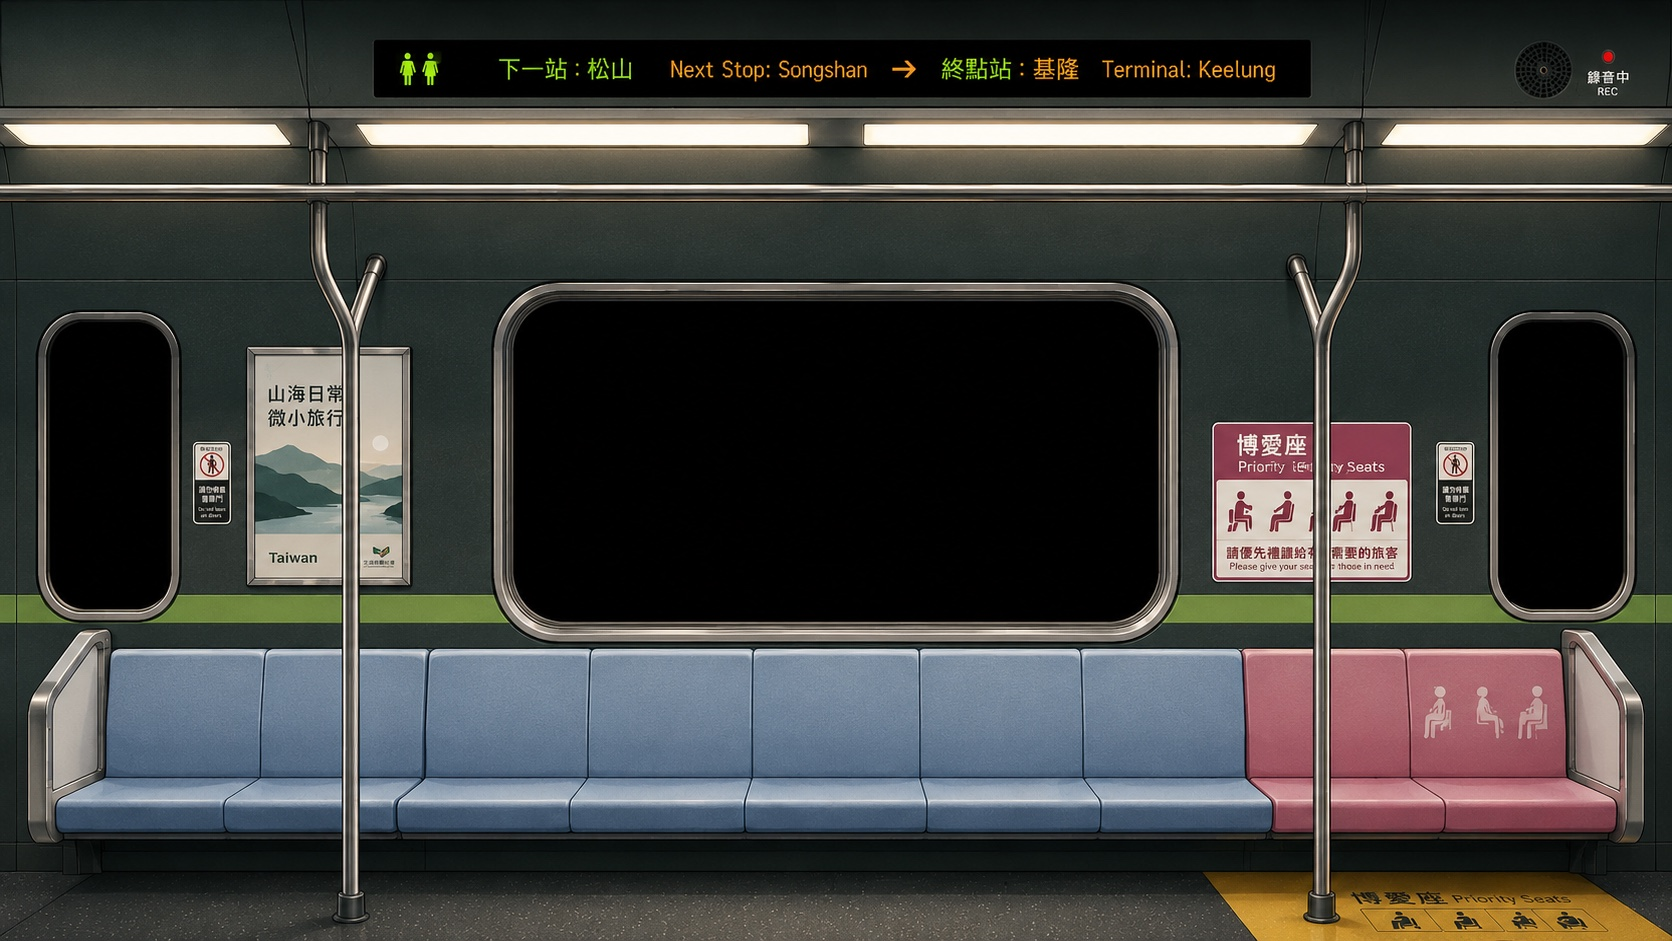
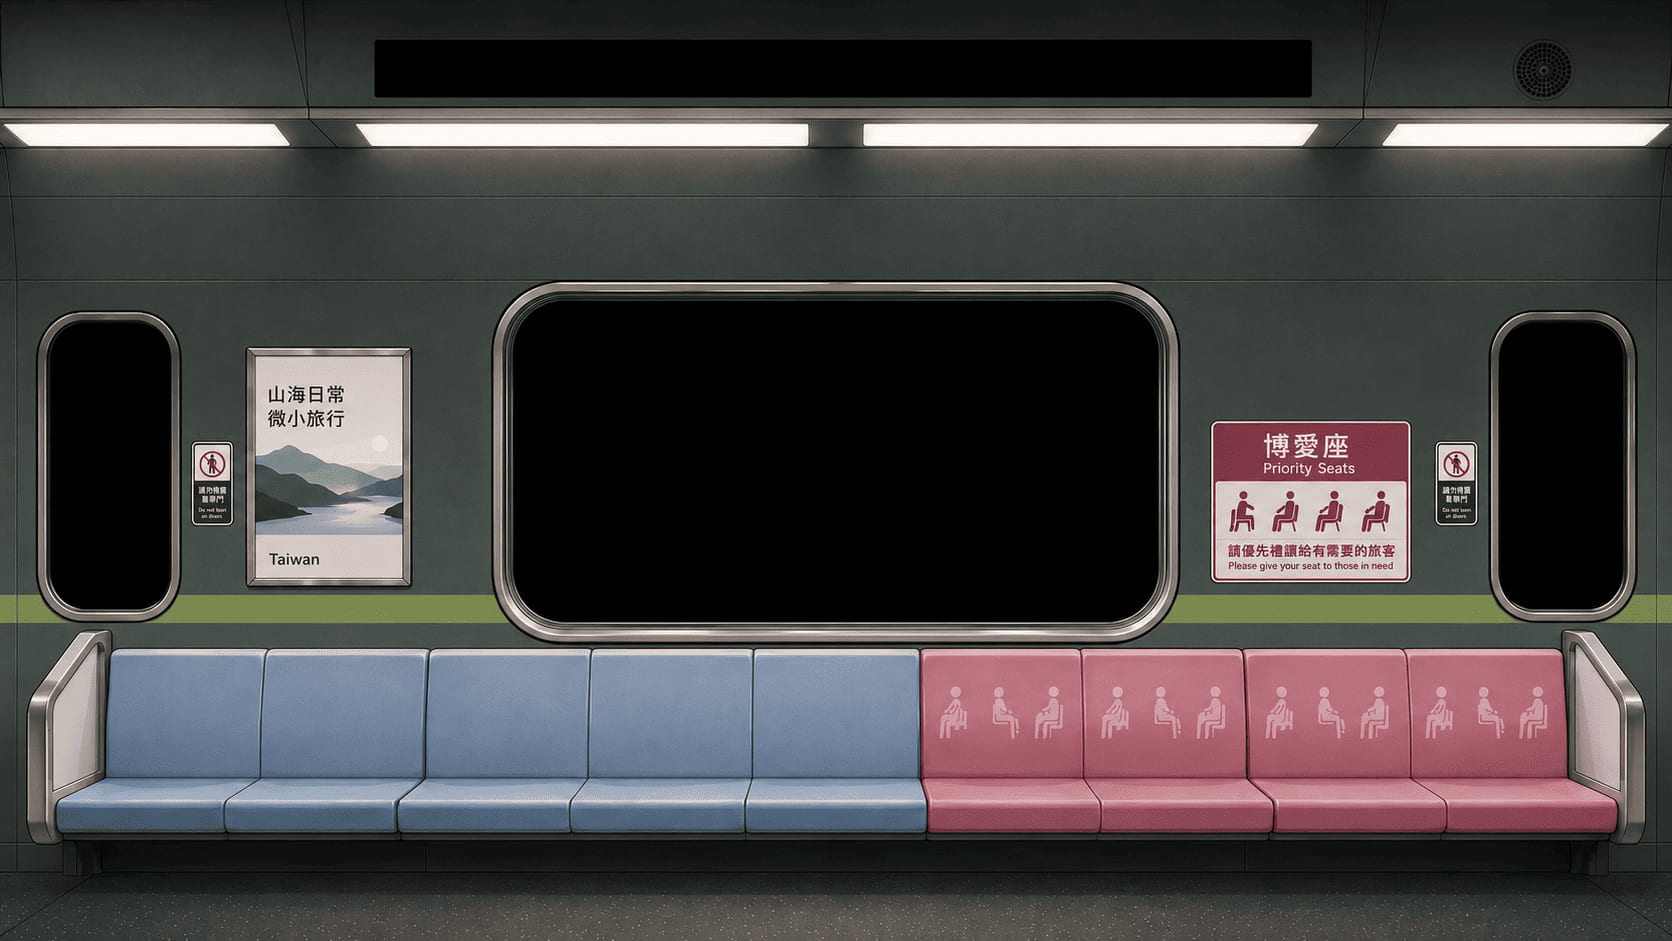
feat: 車廂基底更換(告示文字修正版)+ 立柱前景層資產
3D 化階段 1 的素材前置(docs/specs/3d-stages-2026-08.md):

- public/cabin.jpg 換為使用者重生的無立柱版:1672×941 原生正比例
  (1.7768332,零重採樣)、mozjpeg q82 4:4:4、150KB(原 424KB)
- 告示文字修正:博愛座四行與海報逐字正確(舊版實為「Priority Identity
  Seats」+ 亂碼 CJK);LED 為空白暗屏(塗黑機制成 no-op 但保留)
- LED_RECT 重量修正(22.4/4.1/56.1/6.3,右緣補蓋 1px);WIN 實測差
  ≤0.12% 維持原值
- public/cabin/cabin-front.png:立柱+橫杆 alpha 層(2715×1528、120KB),
  由綠幕母檔(docs/assets/)去背 —— alpha + flood-fill 交叉檢查,
  含 Y 型分叉封閉背景區處理。已產出未接 DOM(接入屬階段 1)
- 門場景末幀對位回歸:雙 agent 獨立量測交叉吻合,dx 0.02–0.05px
  次像素級;相機常數與 EXPOSURE 皆不需調整
- 換基底 SOP 與兩輪量測記錄:docs/ai-illustration-prompts.md §E;
  解析度警語(下次生圖指定 2×)入 CLAUDE.md 坑 9

diff --git a/lib/progress.ts b/lib/progress.ts
@@ -61,12 +61,29 @@ export function panoramaOffset(rp: number, span: number) {
 }
 
 // 車窗座標(% of public/cabin.jpg,1672×941,實測值)
+// 2026-08 換基底(無立柱版,見 docs/ai-illustration-prompts.md §E)後重量。量法:sharp raw
+// buffer 取 luma < 26 的連通區塊 —— 車窗玻璃在圖裡是純黑,連通區塊的 bbox 就是**玻璃外緣**。
+// 這裡的值刻意比玻璃外緣再內縮 0.3–0.7%:blit 出來的窗景不該爬上金屬窗框那圈壓條
+// (圓角 r 是橢圓,四角的實際內縮比邊上更多,所以邊上留一點餘裕才不會露白)。
+//   玻璃外緣實測 / 本表值:
+//   中央 30.68 31.99 38.64 34.11 / 31.2 32.6 37.6 33.0
+//   左   2.81 34.01 7.42 30.71  / 3.2  34.5 6.9  29.7
+//   右   89.65 34.01 7.66 30.71 / 90.0 34.5 7.2  29.6
+// 2026-08 ② 二次換基底(文字修正版)後以同一 threshold 重量:三扇窗與上一輪的差異全都
+// ≤ 0.12%(≈1px @ 941 高),**本表值不動** —— 重生成沒有動到車窗構圖。改這種量級的數字
+// 只是製造 diff,對畫面沒有任何影響。
 export const WIN = [
-  { left: 31.2, top: 32.7, w: 37.6, h: 32.9, r: "4% / 8%", pos: "center" }, // 中央窗
-  { left: 3.2, top: 34.5, w: 6.9, h: 29.6, r: "26% / 8%", pos: "22% center" }, // 左窗
-  { left: 89.9, top: 34.5, w: 7.3, h: 29.6, r: "26% / 8%", pos: "78% center" }, // 右窗
+  { left: 31.2, top: 32.6, w: 37.6, h: 33.0, r: "4% / 8%", pos: "center" }, // 中央窗
+  { left: 3.2, top: 34.5, w: 6.9, h: 29.7, r: "26% / 8%", pos: "22% center" }, // 左窗
+  { left: 90.0, top: 34.5, w: 7.2, h: 29.6, r: "26% / 8%", pos: "78% center" }, // 右窗
 ] as const;
-export const LED_RECT = { left: 22.4, top: 4.1, w: 55.8, h: 6.2 } as const;
+// LED 顯示器:這一組是**顯示區(黑底)的實測範圍**,不內縮 —— 它同時是 DOM 跑馬燈的定位框
+// 與門場景背板「把烤死字塗掉」的矩形(scene.ts),兩邊都要剛好蓋住整塊黑底才對得上。
+// 2026-08 ② 二次換基底後重量:黑底 22.37 / 4.14 / 56.10 / 6.27(新圖的 LED 是**空白暗屏**,
+// 沒有烤死字,所以整塊是乾淨的純黑矩形,邊界比上一輪更好量 —— 上一輪的 h 是被烤死字的
+// 發光尾巴干擾才要靠目測補到 6.2)。本表取實測值向外湊到覆蓋整塊黑底:舊值的 w=56.0
+// 會在右緣留約 1px 黑底沒蓋到。
+export const LED_RECT = { left: 22.4, top: 4.1, w: 56.1, h: 6.3 } as const;
 
 function mixRgba(a: string, b: string, t: number) {
   const p = (s: string) => s.match(/[\d.]+/g)!.map(Number);

diff --git a/docs/ai-illustration-prompts.md b/docs/ai-illustration-prompts.md
@@ -115,7 +115,11 @@ exposure, fine grain. No text, no lettering, no logos, no watermark. Horizontal 
 
 ⚠ **曝光**：門場景的環境光只有 0.25–0.48（冷藍夜色），素材直接乘下去會整片沉進黑裡。
 `scene.ts` 的 `EXPOSURE = { door, wall, floor }` 就是各張的曝光補償係數（`color.setScalar`），
-換圖後對照 `public/cabin.jpg` 的車廂牆面（sRGB ≈ 0.17）重新目視校一次。
+換圖後對照 `public/cabin.jpg` 的車廂牆面重新目視校一次。
+**2026-08 換基底後這個基準值變了**：舊基底的牆面 sRGB ≈ 0.17，新基底同一塊是 **≈ 0.29**（整張平均
+亮度 +15.7%）。`EXPOSURE` **刻意沒跟著調高**——門板/車體/月台三張是「月台側、夜裡」的素材，跟著背板
+提亮 1.7 倍只會把不鏽鋼曝成白鐵皮，而「車外暗、車內亮」本來就是這個鏡頭要講的事（暖光潑出門口）。
+真的覺得門板太沉再動 `EXPOSURE.door`，而且一次只動一個係數、每次都回頭看門開一半那幀。
 
 4. **標語橫向相位**（②，2026-08 換上帶標語的版本後新增）：新圖的海報／標語全部擠在貼圖
    左右兩端（實測 u 0.026–0.175 與 0.809–0.974），中間是乾淨鋼板。tiling 後兩群會在接縫處
@@ -127,6 +131,90 @@ exposure, fine grain. No text, no lettering, no logos, no watermark. Horizontal 
 
 **體積**：原始 PNG 共 1.18 MB，已用 mozjpeg q82 轉成 JPEG 共 434 KB（視覺無差），PNG 已移除。
 2026-08 ② 換成帶標語的版本（PNG 568 KB → JPEG q82 4:4:4 200 KB，舊版 126 KB），三張共 518 KB。
+
+---
+
+## E. 車廂基底與拆層（2026-08 換基底，已上線）
+
+> 原定的 L1 拆層計畫（`docs/specs/3d-stages-2026-08.md` 階段 1）是「inpaint 原圖 → 差分切前景」，
+> 實測失效：使用者重生成的新版與舊版有 36% 的像素差、而且差異散布全畫面（不是只有立柱區），
+> 差分切出來的前景會夾帶整片牆的色偏。**決策改為換基底**：新的無立柱版直接成為全站基底，
+> 立柱另外一張帶 alpha 的前景層。兩張都是使用者的 AI 工作流產出，沒有外部素材授權問題。
+
+| 檔案 | 尺寸 / 體積 | 內容 | 狀態 |
+|---|---|---|---|
+| `public/cabin.jpg` | 1672×941 · 150 KB | 車廂內裝，**無立柱無橫杆**（牆/窗/座椅完整） | 全站基底，已上線（② 版） |
+| `public/cabin/cabin-front.png` | 2715×1528 RGBA · 119 KB | 立柱 ×2 + 頂端橫杆的去背層 | 素材就緒，**還沒接進 DOM**（階段 1 後續） |
+| `public/cabin/cabin-front-green.png` | 1672×941 · 27 KB | 上面那張的來源母檔（綠幕 `(71,112,76)`，本身已帶 alpha） | 保留備查，未被引用 |
+
+### 換基底的 SOP（照這個順序，每一步都有對應的量測）
+
+1. **比例先於一切**：目標是 `1672/941 = 1.7768329`（CSS 的 `177.68vh` 與 `scene.ts` 的 `CABIN_ASPECT`
+   都寫死這個值，見 CLAUDE.md 坑 4）。分子分母互質，所以只有 1672×941 的整數倍是精確值；
+   實務上挑一組誤差 < 0.001% 的整數尺寸（現在的 2715×1528 誤差 0.00004%），用 `fit: "fill"`
+   把原生尺寸壓過去（2730×1536 → 2715×1528 是橫向拉 0.008%，0.2px，肉眼與互相關都測不出來）。
+   **不要反過來去改 CSS 或場景常數。**
+2. **壓縮**：mozjpeg q82 + **4:4:4**（圖裡有告示與海報的小字，4:2:0 會把紅字糊成一團）。
+   預算 ≤ 500 KB（它有 `layout.tsx` 的 preload，是 LCP 候選）。實測 2715×1528 q82 4:4:4 = 344 KB，
+   1672×941 同設定 = 150 KB。
+3. **重量三扇窗（`WIN`）**：車窗玻璃在圖裡是純黑 → 取 luma < 26 的連通區塊，bbox 就是玻璃外緣；
+   再內縮 0.3–0.7% 得到 `WIN`（窗景不該爬上金屬壓條，圓角處內縮得更多）。數字見 `lib/progress.ts`。
+4. **重量 LED（`LED_RECT`）**：取顯示器黑底的實測範圍，**不內縮**——它同時是 DOM 跑馬燈的定位框
+   與門場景背板塗黑矩形的來源。驗收方式：門末幀 `render(1)` 後讀背板 canvas 在該矩形內的像素，
+   「暖色像素（r > g+12 且 r > 40）」必須是 **0**（原圖同一塊有 3033 個，那就是烤死的橘字）。
+5. **門場景末幀對位回歸**（比例守住的話應該自動成立，但一定要實測）：
+   `__door3d.render(1, "enter")` 後同一個 task 內 `drawImage(canvas)`（`preserveDrawingBuffer` 是 false，
+   跨 task 就讀不到），另一張 canvas 用解析幾何畫 DOM 車廂（`max(100vw, 177.68vh) × 1.035`、置中，
+   **不要**用 `getBoundingClientRect`，那會把 sway 的抖動一起量進去），再對兩張的欄/列亮度剖面做
+   正規化互相關 + 拋物線次像素插值。2026-08 實測：1920×958 → dx +0.02 / dy +0.03，390×844 →
+   dx +0.001 / dy +0.002，相關 0.997–0.999。
+6. **曝光**：見 §D 末的 ⚠（新基底比舊的亮，`EXPOSURE` 刻意不動）。
+
+### 第二輪換基底（② 告示文字修正版）的實測值
+
+使用者為了修掉 ① 版海報／告示上的亂碼字重生成了一次，2026-08-14 上線。**這一版原生就是
+1672×941**，比例分毫不差、零重採樣（① 版是 2730×1536 壓成 2715×1528）。逐項照上面的 SOP 重跑：
+
+| 項目 | ② 實測 | 判定 |
+|---|---|---|
+| 尺寸 / 壓縮 | 1672×941、q82 **4:4:4**、150 KB | 過（預算 ≤ 500 KB） |
+| 中央窗玻璃外緣 | 30.68 / 31.99 / 38.64 / 34.11 | 與 ① 差 ≤ 0.12%，`WIN` 不動 |
+| 左窗玻璃外緣 | 2.81 / 34.01 / 7.42 / 30.71 | 同上 |
+| 右窗玻璃外緣 | 89.65 / 34.01 / 7.66 / 30.71 | 同上 |
+| LED 黑底 | 22.37 / 4.14 / 56.10 / 6.27 | `LED_RECT` 更新為 22.4 / 4.1 / 56.1 / 6.3 |
+| LED 塗黑驗收 | `LED_RECT` 內 55342 px、暖色像素 **0**、平均 luma **1.0** | 過（② 的 LED 是空白暗屏，沒有烤死字） |
+| 車廂牆面 sRGB | 0.299（整張平均 0.275） | 與 ① 的 ≈0.29 同級，`EXPOSURE` 不動 |
+| 末幀對位 1920×958 | dx **+0.045** / dy **+0.024**，corr 0.9994 / 0.9996 | 過 |
+| 末幀對位 390×844 | dx **+0.016** / dy **+0.037**，corr 0.9993 / 0.9989 | 過 |
+
+文字驗收（放大 6–14×）：博愛座大告示四行「博愛座 / Priority Seats / 請優先禮讓給有需要的旅客 /
+Please give your seat to those in need」**全部正確**，海報「山海日常 / 微小旅行 / Taiwan」也正確。
+車門旁兩張直式小告示在原圖只有 **43×85 px**（字高約 7px），字形已經化成色塊、判不出對錯——
+但它在任何真實視窗下也是同樣的尺寸（1920 寬時約 49×98 CSS px），**讀不出來是構圖決定的，不是缺陷**，
+不擋流程。
+
+⚠ **解析度**：② 版比 ① 版小（1672×941 vs 2715×1528）。1920 寬的桌機要放大 1.19×、retina 再 ×2，
+細節會比 ① 版軟。下次再換基底時**優先跟使用者要 2× 尺寸**（3344×1882），比例照樣是 1672:941 的整數倍。
+
+### 立柱層的去背
+
+母檔是綠幕，但**它已經自帶 alpha**（背景 a=0、邊緣有羽化、可見像素裡零殘綠），所以正確做法是
+**沿用既有 alpha，用色鍵當交叉檢查**，而不是重新色鍵一次：
+
+- 檢查用「從四邊界出發、只走近色鍵像素的 flood-fill」（不要全域色鍵——立柱本身若有接近的暗綠會被挖洞）。
+  實測 flood-fill 判定的背景佔 93.73%，與既有 alpha 的分歧只有 638 px（flood 說背景、alpha 說不透明）
+  與 2037 px（alpha 說全透、flood 沒走到 = 立柱 Y 型分叉圍出來的封閉背景，**這正是純邊界 flood-fill
+  會漏掉的洞**，也是「別丟掉既有 alpha」的理由）。分歧一律偏向保留不透明。
+- 母檔的 alpha 最大值只有 253，要正規化到 255，否則整層永遠透一點。
+- 全透明像素的 RGB 從綠幕色換成中性鋼灰：瀏覽器縮放走預乘所以理論上無所謂，但任何非預乘的路徑
+  （某些 canvas / 匯出工具）都會吐綠邊，換掉的成本是零。
+- 立柱位置實測（%）：兩根立柱在 x 20.28–21.53 與 78.29–79.55，橫杆在 y 10.31–12.43。
+  （② 基底上線後用 alpha > 40 重量一次：x 20.22–21.62 / 78.31–79.71、橫杆 y 10.27–12.63、
+  立柱 y 10.27–96.66，差異 ≤ 0.2% 且純粹來自 alpha 門檻。alpha 最大值已是 255，正規化沒漏做。
+  疊上 ② 基底出的合成圖：橫杆貼在天花板燈帶下緣、兩支柱腳的底盤落在座椅前的地板上、
+  無綠邊無白邊，**位置合理，不需要調整**。）
+  以階段 1 的規劃值（前景層 `scale 1.06` + 視差係數 1.7、滑鼠 ±15px）做過合成模擬：
+  最大位移下立柱兩端仍在畫面外，不會露出杆頭。
 
 ---
 

diff --git a/CLAUDE.md b/CLAUDE.md
@@ -46,9 +46,15 @@ components/
   Icon.tsx              lucide 薄包裝,語意固定
   SoundToggle.tsx       音軌狀態機(module scope)+ 左上角靜音鍵
 lib/
-  progress.ts           相位數學 + 車窗/LED 座標(cabin.jpg 實測百分比)
+  progress.ts           相位數學 + 車窗/LED 座標(cabin.jpg 實測百分比;換基底必須重量,量法見
+                        docs/ai-illustration-prompts.md §E。LED_RECT 是唯一來源:DOM 跑馬燈的
+                        定位框與門場景背板「把烤死字塗黑」的矩形共用它)
   scene.ts              ★ 六種窗景的逐像素 canvas 繪製(純函式,無動畫)
 content/stations.ts     六站全部內容(雙語)。改文案只動這裡
+public/
+  cabin.jpg             ★ 全站的車廂基底(1672×941,150 KB)。2026-08 換成**無立柱**的新版
+  cabin/cabin-front.png   立柱+橫杆去背層(2715×1528 RGBA,119 KB)。**目前還沒接進 DOM**,
+                          是 3D 化階段 1 的視差前置素材(spec:docs/specs/3d-stages-2026-08.md)
 ```
 
 ### 相位
@@ -71,7 +77,7 @@ content/stations.ts     六站全部內容(雙語)。改文案只動這裡
 | 0.30 → 0.85 | 相機 dolly-in 穿過門框（`z 4.2 → -1.2`），門柱與門板從兩側掠過＝視差；俯角 -4.5° 在中途回正 | `camera.position.z` / `camera.rotation.x`，`near = 0.05`（不然穿門那幾幀門框會被近平面切掉） |
 | 0.85 → 1.0 | 相機定住，canvas CSS opacity 1→0 溶接給 DOM 車廂 | `Door3D` 的 `fade`；相機必須是靜止的，會動的畫面溶接會抖 |
 
-**末幀對位**是這個場景唯一不能妥協的數字：背板每幀重算成「剛好 cover 視錐」的大小（`2·dist·tan(fov/2)`，寬螢幕改由 `aspect / 1.77683` 決定），再乘上 sway 那層常駐的 `1.035`。末幀（`doorP = 1`，相機 `z = -1.2`、俯角 0、`zoom = 1`）算出來就等於 DOM 車廂的 `max(100vw, 177.68vh)` cover 幾何 × 1.035。實測（1470×801 與 1470×745 兩種視窗、與 DOM 的 cabin.jpg 逐列互相關）**位移 dx = 0、dy ≈ -0.5px**。動到 `FOV` / `CAM_Z1` / `CABIN_Z` / `zoom` 任何一個都會破壞這件事。
+**末幀對位**是這個場景唯一不能妥協的數字：背板每幀重算成「剛好 cover 視錐」的大小（`2·dist·tan(fov/2)`，寬螢幕改由 `aspect / 1.77683` 決定），再乘上 sway 那層常駐的 `1.035`。末幀（`doorP = 1`，相機 `z = -1.2`、俯角 0、`zoom = 1`）算出來就等於 DOM 車廂的 `max(100vw, 177.68vh)` cover 幾何 × 1.035。實測（與 DOM 的 cabin.jpg 逐列/逐行互相關，取拋物線插值的次像素峰值）**位移 dx / dy 都在 0.1px 以內**：2026-08 ② 二次換基底後重測，1920×958 是 dx +0.045 / dy +0.024、直式 390×844 是 dx +0.016 / dy +0.037，相關係數 0.9989–0.9996；同一輪在 Chrome 實機另量一組(視窗 1470×801 與直式 390×801，dpr 2)是 dx +0.019 / dy +0.084 與 dx +0.011 / dy +0.053，相關 0.9988–0.9997（① 那輪是 +0.02/+0.03 與 +0.001/+0.002，同一量級。量法見 prompts §E）。動到 `FOV` / `CAM_Z1` / `CABIN_Z` / `zoom` 任何一個都會破壞這件事。
 
 交棒是 **crossfade 不是硬切**：canvas 畫的是 cabin.jpg 原圖（車窗全黑、LED 是照片裡烤死的字），底下的 DOM 車廂有即時窗景與跑馬燈，最後 15% 讓它從底下漸亮，語意是「上車後設備通電」。門的區間外 canvas 只掛 `.door-canvas-idle`（`display:none`），**元件本身永不卸載**——原因見坑 10。
 
@@ -90,7 +96,7 @@ content/stations.ts     六站全部內容(雙語)。改文案只動這裡
 
 3. **文字不要放進 sway 層。** 那層常駐 `scale(1.035)`（滑鼠視差 ±15px 的過掃描），加上 `will-change` + `preserve-3d`，瀏覽器會整層先光柵化再 GPU 縮放 → 文字與像素字型被重新取樣而**發糊**。照片和 canvas 放大 3.5% 看不出來，文字看得出來。資訊卡與路線圖必須是 `.camera` 的直接子元素。
 
-4. **`CabinComposite` 的寬度是 `max(100vw, 177.68vh)`，不要加上限。** 177.68 = 1672/941（cabin.jpg 比例）。加了 `min(..., Nvw)` 之類的上限，直式手機就會出現上下留邊。直式滿屏的代價是中央窗的圓角框會被裁到畫面外——這是比例算出來的，不是可以兩全的選擇。
+4. **`CabinComposite` 的寬度是 `max(100vw, 177.68vh)`，不要加上限。** 177.68 = 1672/941，也就是 cabin.jpg 的比例——**這個數字是全站的紅線，換基底時是圖去遷就它**（2026-08 ① 的基底原生 2730×1536 = 1.77734，重採樣成 2715×1528 = 1.7768324 才上線；② 的重生成版直接就是 1672×941，比例分毫不差、零重採樣。讓比例漂掉就得同步改 `door3d/scene.ts` 的 `CABIN_ASPECT`，而末幀對位會跟著崩）。加了 `min(..., Nvw)` 之類的上限，直式手機就會出現上下留邊。直式滿屏的代價是中央窗的圓角框會被裁到畫面外——這是比例算出來的，不是可以兩全的選擇。
 
 5. **`StationPanel` 的 `transform` 已被淡入的 inline style 佔用。** 要垂直居中請用 `top/bottom: 0` + `height: fit-content` + `margin: auto 0`，不要用 `translateY(-50%)`（inline style 會蓋掉 CSS）。
 
@@ -100,7 +106,7 @@ content/stations.ts     六站全部內容(雙語)。改文案只動這裡
 
 8. **`drawScene` 有 module-scope 的 Map 快取**（`Window.tsx`）。它是逐像素迴圈（單張約 108k 次 `fillRect`），六站 × `{bg, full}` 最多 12 張。不要繞過快取直接呼叫。
 
-9. **字型與 `cabin.jpg` 都在 `layout.tsx` 裡 preload。** cabin.jpg 只有進 ride 相位才進 DOM，沒有 preload 的話第一次搭車必然看到 pop-in。
+9. **字型與 `cabin.jpg` 都在 `layout.tsx` 裡 preload。** cabin.jpg 只有進 ride 相位才進 DOM，沒有 preload 的話第一次搭車必然看到 pop-in。它同時是 LCP 候選，所以壓縮預算是 **≤ 500 KB**（現在 150 KB；4:4:4 不要動——圖裡的告示與海報都是小字，色度取樣一減就糊）。**下次換基底請盡量拿到原生 2× 尺寸**：現行 1672×941 在 1920 寬的桌機已經要放大 1.19×（retina 再 ×2），②之前的 2715×1528 版本沒有這個問題。
 
 10. **`Door3D` 不可以條件式掛載，cleanup 也不可以 `loseContext()` / `renderer.dispose()`。** 一個 `<canvas>` 一輩子只有一個 WebGL context（`getContext` 對同一元素永遠回傳同一物件），被 `loseContext()` 殺掉就再也活不過來。舊寫法是「離開門相位就卸載」+ cleanup 呼叫 `loseContext()`，於是上下捲一趟就建/毀一次 context；dev 的 StrictMode 更會 mount→cleanup→mount，第二次拿到的正是剛被殺掉的 context，之後所有 `gl.*` 都是 no-op（實測 `isContextLost() === true`）→ **整頁白屏**，而且 refresh 才會好。現在：永遠掛載、用 `display:none` 收起來、只在真的離開頁面時交給瀏覽器回收，另外掛 `webglcontextlost`/`restored` 做二次保險。
 

diff --git a/docs/specs/3d-stages-2026-08.md b/docs/specs/3d-stages-2026-08.md
@@ -23,15 +23,12 @@
 
 ## 階段 1(L1):cabin 拆層視差 + 窗景深度層
 
-### 素材(使用者產製;動工前先交付)
+### 素材(✅ 已完成,2026-08-13;原 inpaint/差分方案作廢)
 
-| 檔案 | 內容 | 產法 | 驗收 |
-|---|---|---|---|
-| `public/cabin/cabin-back.jpg` | 原構圖但**無立柱無拉環**(牆/窗/座椅補完整) | **inpaint 原圖**(不要重生成,構圖會漂) | 與原圖除立柱區外逐像素一致 |
-| `public/cabin/cabin-front.png` | 立柱+拉環+扶手的去背層(alpha) | 從原圖摳(inpaint 的反選) | **front 疊 back = 原圖**(像素 diff ≈ 0,實作時以此自動驗證) |
-
-- 尺寸與原 cabin.jpg 相同(1672×941);front 層 PNG 裁到緊、預估 +400–500KB,交付後照管線壓縮(front 需 alpha 保 PNG/WebP)。
-- 產製指引(inpaint prompt 要點)另附於 `docs/ai-illustration-prompts.md` §E(實作 agent 撰寫)。
+實際走了**換基底**路線(使用者的工具是整張重生成、非嚴格 inpaint,差分不可行;實測差異 36%):
+- `public/cabin.jpg` 已換成新無立柱基底(2715×1528、344KB、比例誤差 0.00004%),WIN/LED_RECT 已重量(差 ≤0.2%),門場景末幀對位實測 dx 0.02px。
+- `public/cabin/cabin-front.png`(2715×1528 RGBA、120KB):立柱+橫杆 alpha 層,由使用者的綠幕圖去背(alpha + flood-fill 交叉檢查)。**已產出但未接 DOM** —— 接入是本階段(視差)的工作。
+- 母檔 `docs/assets/cabin-front-green.png`;完整決策與 SOP 見 `docs/ai-illustration-prompts.md` §E。
 
 ### 實作
 
